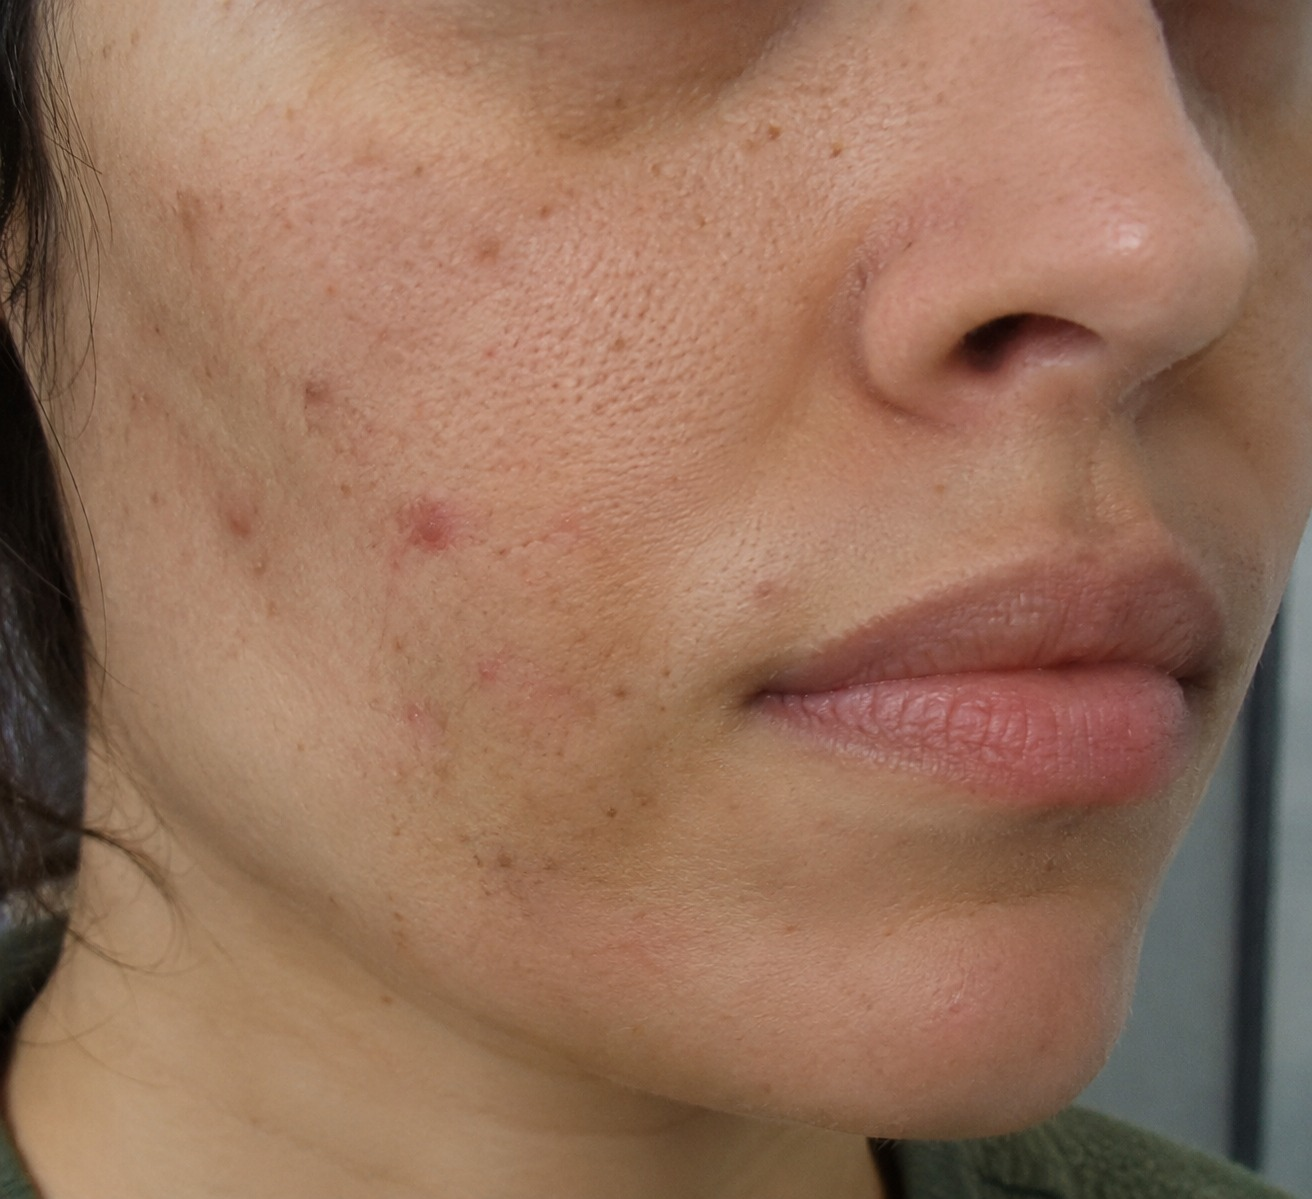
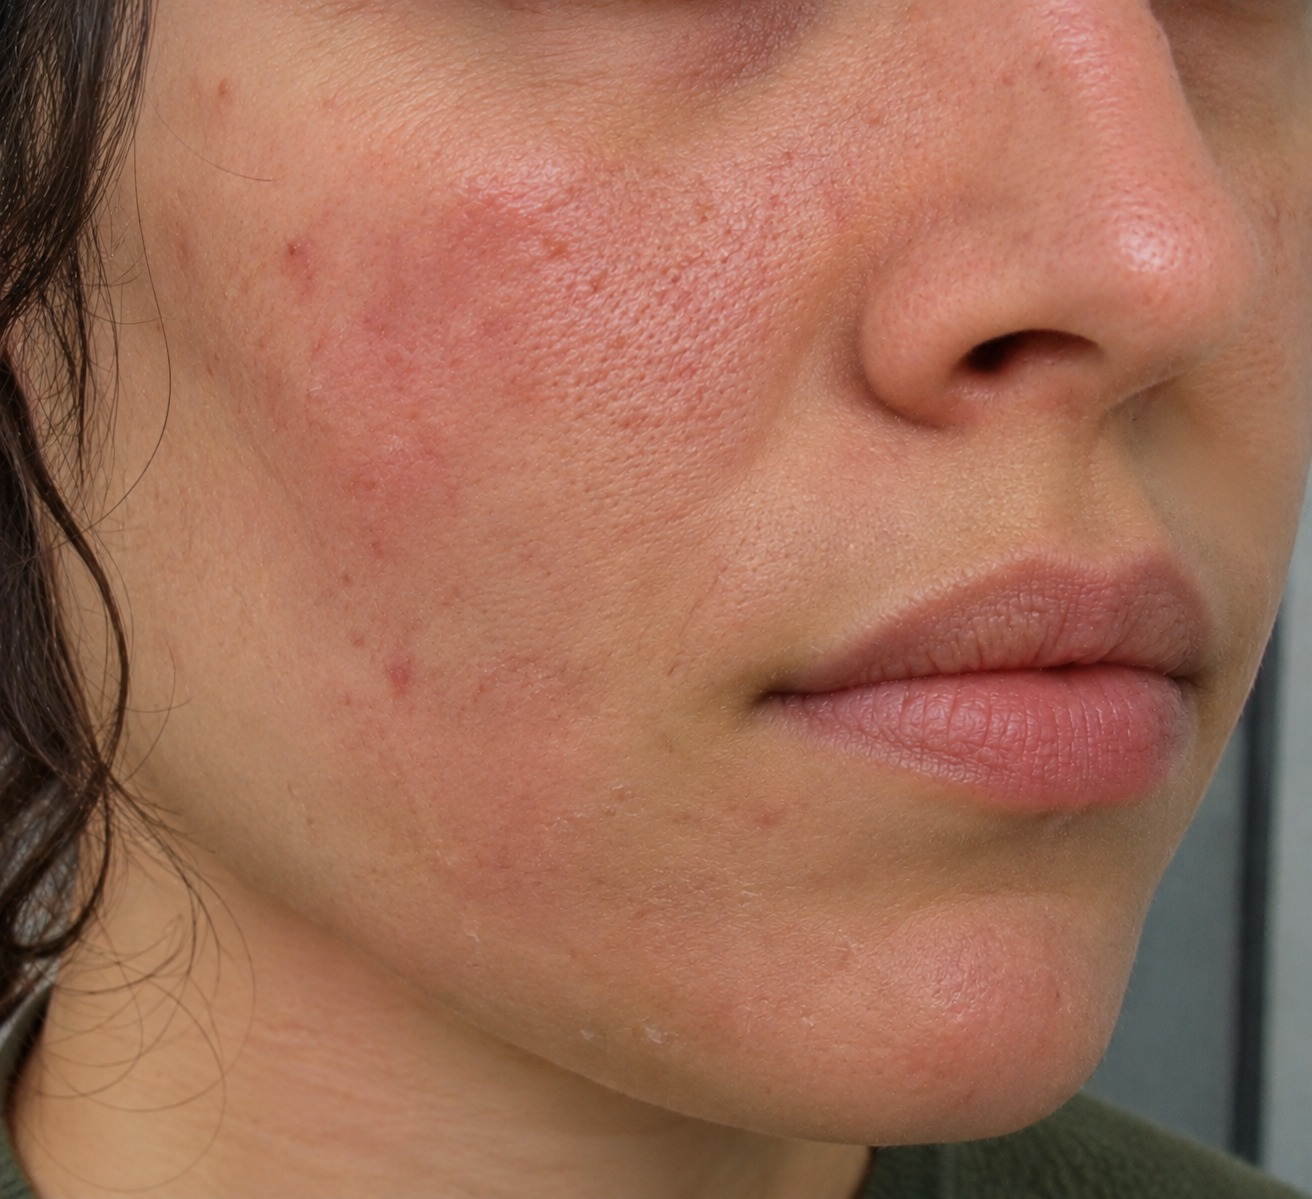
Laveka ad: drop brightening and pigmentation claims, new before photo
- Five benefits (no brightening); odd last tile spans the row
- Problem chips: dryness, redness, irritation, dullness
- Ingredient blurbs no longer claim lightening or pigment reduction
- Before photo now shows redness and irritation

Claude-Session: https://claude.ai/code/session_01ABfxsXoYVi3skiMyVVfwyX

diff --git a/my-video/src/laveka/Scenes.tsx b/my-video/src/laveka/Scenes.tsx
@@ -227,7 +227,7 @@ export const ProblemScene: React.FC = () => {
   const { durationInFrames } = useVideoConfig();
   const zoom = interpolate(frame, [0, durationInFrames], [1.0, 1.08]);
   const q = useEnter(10);
-  const problems = ["جفاف", "احمرار", "تصبغات", "بهتان"];
+  const problems = ["جفاف", "احمرار", "تهيّج", "بهتان"];
   return (
     <AbsoluteFill style={{ fontFamily, backgroundColor: "#2b2b2b" }}>
       <div
@@ -497,7 +497,6 @@ export const ProductScene: React.FC = () => {
 
 const benefits: { text: string; Icon: React.FC<{ size?: number }> }[] = [
   { text: "ترطيب", Icon: DropIcon },
-  { text: "تفتيح", Icon: SunIcon },
   { text: "ترميم", Icon: BandageIcon },
   { text: "تهدئة", Icon: LeafIcon },
   { text: "نضارة", Icon: SparkleIcon },
@@ -508,11 +507,13 @@ const BenefitTile: React.FC<{
   text: string;
   Icon: React.FC<{ size?: number }>;
   delay: number;
-}> = ({ text, Icon, delay }) => {
+  wide?: boolean;
+}> = ({ text, Icon, delay, wide }) => {
   const p = useEnter(delay, 13);
   return (
     <div
       style={{
+        gridColumn: wide ? "1 / -1" : undefined,
         display: "flex",
         flexDirection: "column",
         alignItems: "center",
@@ -554,7 +555,7 @@ export const BenefitsScene: React.FC = () => {
       <AbsoluteFill
         style={{ padding: "140px 70px", gap: 34, justifyContent: "center" }}
       >
-        <Heading>6 فوائد في كريم واحد</Heading>
+        <Heading>5 فوائد في كريم واحد</Heading>
         <GoldRule delay={8} />
         <div
           style={{
@@ -571,6 +572,7 @@ export const BenefitsScene: React.FC = () => {
               text={b.text}
               Icon={b.Icon}
               delay={14 + i * 10}
+              wide={i === benefits.length - 1 && benefits.length % 2 === 1}
             />
           ))}
         </div>
@@ -701,7 +703,7 @@ const ingredients = [
   },
   {
     name: "Brightening Extract",
-    desc: "يفتّح البشرة ويوحد لونها",
+    desc: "يوحّد لون البشرة ويمنحها إشراقاً",
     from: "#d7f2c8",
     to: "#4f9a3a",
     mark: "",
@@ -715,7 +717,7 @@ const ingredients = [
   },
   {
     name: "Niacinamide",
-    desc: "ينظم الدهون ويقلل التصبغات",
+    desc: "ينظم الدهون ويعزز نضارة البشرة",
     from: "#ffe7b0",
     to: "#e08a12",
     mark: "B3",
